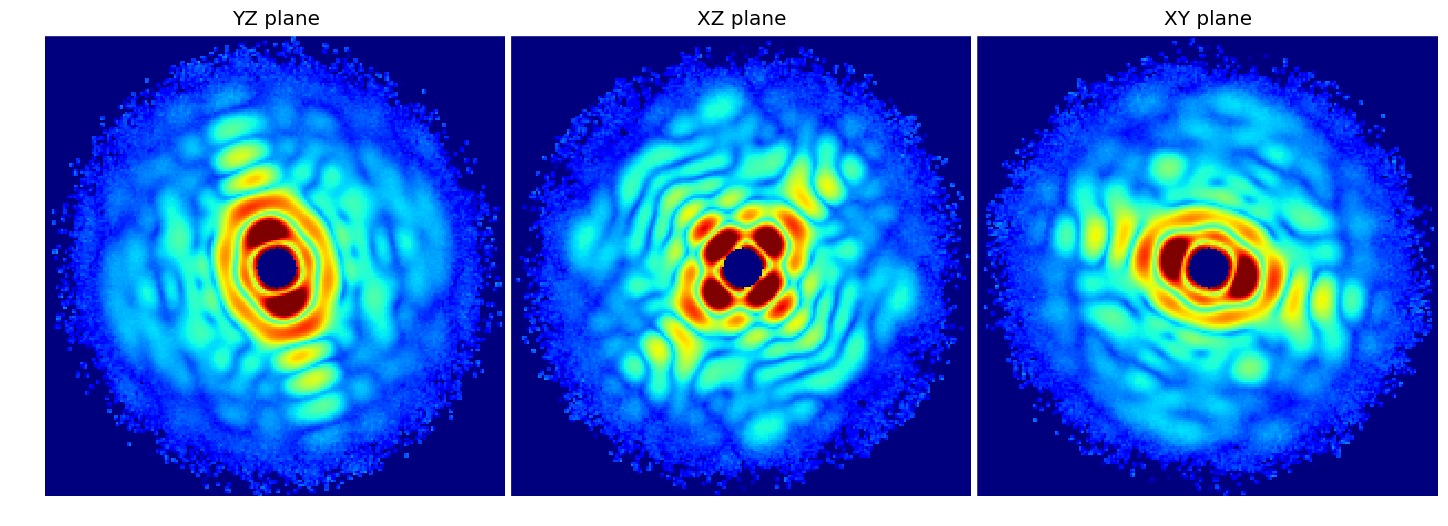
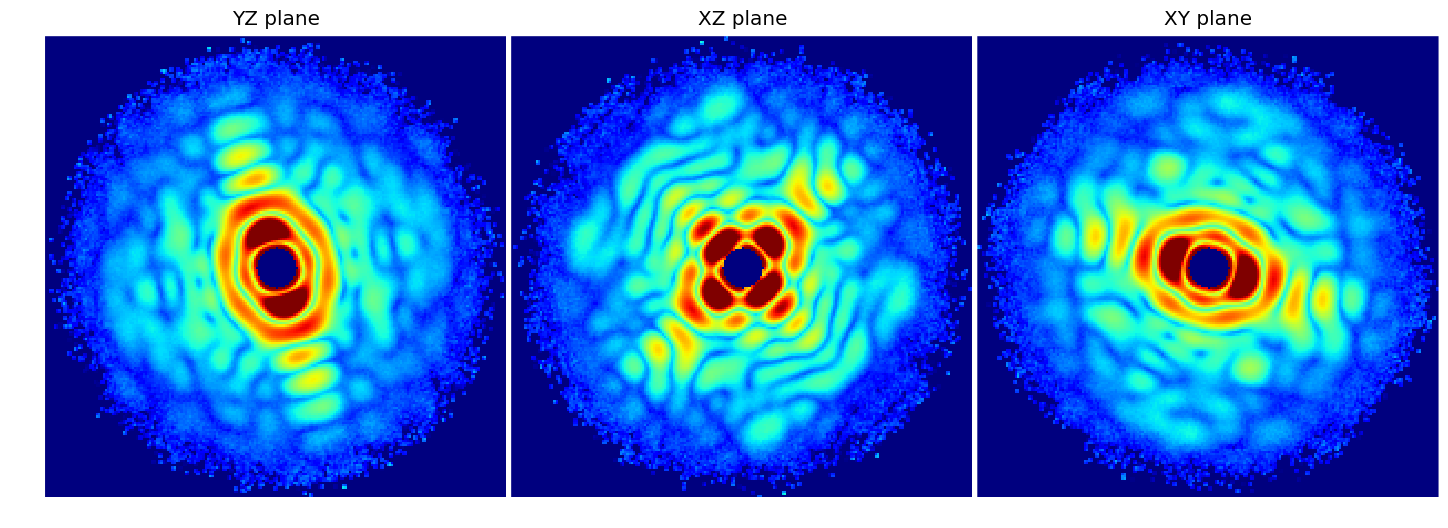
Updated AMO high fluence figures to quat=9

Changed region(s): [[0.0311, 0.0, 0.9945, 0.943]]

diff --git a/paper/EMC.tex b/paper/EMC.tex
@@ -343,7 +343,7 @@ The rightmost plot is the most useful for monitoring convergence. This is a matr
 
 For the CXI reconstruction (Fig.~\ref{fig:cxi_log}), due to the size of the problem, the quaternion sampling number was increased in steps. If one chooses too coarse a rotation group sampling, low resolution speckles get reconstructed but higher resolution features remain blurry. However, once the switch to the right sampling is made, convergence is very quick. As the computation time scales as the number of samples, it is faster to slowly ramp up the fineness such that only a few iterations are performed at the highest sampling rate. The red dashed lines indicate iterations where the sampling rate was increased, starting from 6 and ending at 9. Also, since the orientation numbers change when modifying the quaternion file, each subset is independently sorted in the best orientation matrix plot. Also note how the mutual information does not increase much in the last jump, indicating that even finer sampling would not help.
 
-For the high fluence AMO reconstruction (Fig.~\ref{fig:amo_high_log}), the situation is slightly different. As mentioned before, due to very high signal, the algorithm can fall into a local maxima trap in the first few iterations. This can be avoided by choosing a low $\beta$ as described in Section~\ref{subsec:EMC} to start with. In this particular case $\beta$ was 0.001 for the first 10 iterations and was then doubled every 10 iterations. Once again, the dashed lines represent the iterations at which $\beta$ was doubled.
+For the high fluence AMO reconstruction (Fig.~\ref{fig:amo_high_log}), the situation is slightly different. As mentioned before, due to very high signal, the algorithm can fall into a local maxima trap in the first few iterations. This can be avoided by choosing a low $\beta$ as described in Section~\ref{subsec:EMC} to start with. In this particular case $\beta$ was 0.001 for the first 10 iterations and was then doubled every 10 iterations. The black dashed lines represent the iterations at which $\beta$ was doubled. After 80 iterations, the quaternion number was increased from 6 to 9 and 10 iterations were done for reasons similar to the CXI reconstruction. 
 
 \begin{figure}
 \caption{Convergence of diffraction speckle features in a simulated AMO single-particle experiment (parameters listed in Table \ref{table:simParams}). In each row we render central slices of the 3D diffraction intensities recovered from KLH1 during an EMC reconstruction, after iterations 1,10,20 and 50 in ascending row order. These figures were generated by the \texttt{autoplot.py} utility of Section ~\ref{subsubsec:utils}.}
